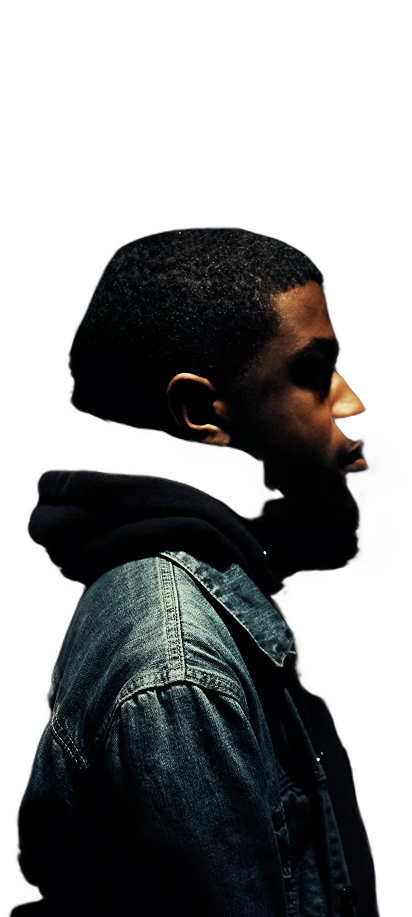
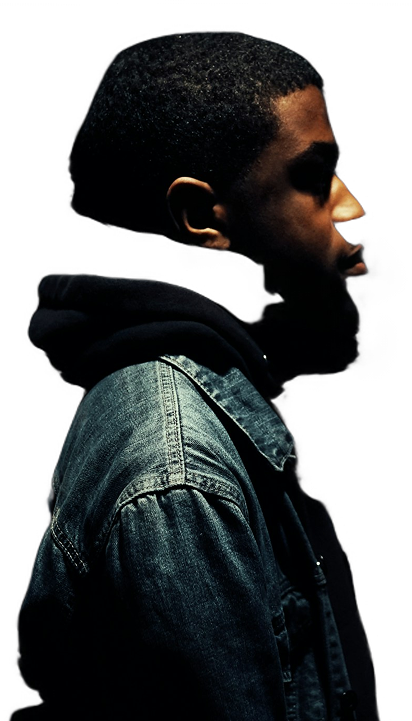
added footer - mobile responsive only

diff --git a/pages/HomeCumAbout.jsx b/pages/HomeCumAbout.jsx
@@ -2,63 +2,72 @@ import React from "react";
 
 function HomeCumAbout() {
   return (
-    <div className="w-full flex-1 relative">
-      {/* Who I am */}
-      <div className="">
-        <span className="font-thin text-[44px]  lg:text-[50px] xl:text-[60px] block leading-[40px]">
-          I<span className="font-sans">'</span>M
-        </span>
-        <span className="font-bold text-[91px] block leading-[64px] md:leading-[70px] lg:leading-[85px] xl:leading-[140px] md:text-[100px] lg:text-[120px] xl:text-[180px]">
-          AFSAL
-        </span>
-        <span className="font-bold text-[91px] block leading-[64px] md:leading-[70px] lg:leading-[85px] xl:leading-[140px] md:text-[100px] lg:text-[120px] xl:text-[180px]">
-          VN
-        </span>
-      </div>
-
-      {/* Roles */}
-      <div className="text-[72px] md:text-[86px] lg:text-[98px] xl:text-[160px] absolute bottom-0 left-0 z-[50]">
-        <span className="leading-[60px] md:leading-[70px] lg:leading-[74px] xl:leading-[120px] block">MERN </span>
-        <span className="leading-[60px] md:leading-[70px] lg:leading-[74px] xl:leading-[120px] block">
-          DEVELOPER{" "}
-        </span>
-      </div>
-
-      {/* floatig scroll down button */}
-      <div className="absolute bottom-[150px] md:bottom-[100px] right-0 z-[50] w-[66px] md:w-[70px] xl:w-[100px] aspect-square border border-secondary rounded-full flex flex-col justify-center items-center gap-[7px]">
-        <span className="text-secondary text-[7px] md:text-[10px] xl:text-[16px] text-center leading-[6px] md:leading-[10px] xl:leading-[16px]">
-          SCROLL
-          <br />
-          DOWN
-        </span>
-        <img
-          src="./icons/bottomArrow.svg"
-          alt=""
-          className="w-[20px] md:w-[24px] xl:w-[32px] aspect-square animate-bounce"
-        />
-      </div>
-
+    <div className="h-screen w-full">
       {/* Hero Image */}
       <img
         src="./images/HeroImage.png"
         alt="HeroImage"
-        className="absolute bottom-0 left-0 h-screen object-cover object-[center_30px] md:hidden"
+        className="absolute w-full z-[50] bottom-0 left-0 object-[center_60px] md:hidden"
       />
       <img
         src="./images/HeroImageAlt.png"
         alt="HeroImage"
-        className="hidden absolute bottom-0 left-0  md:block md:w-[90%] lg:w-[75%] xl:w-auto md:left-1/2 md:-translate-x-1/2 xl:-translate-x-1/4 md:aspect-square md:object-cover "
+        className="hidden md:block  md:absolute md:bottom-0 md:left-1/2 md:-translate-x-1/2 md:z-[50] md:object-[center_60px] xl:w-[45%]"
       />
+      <div className="h-full w-full px-[24px] xl:px-[300px] pt-[98px] xl:pt-[140px] pb-[32px] flex flex-col justify-between relative">
+        {/* Who I am */}
+        <div className="">
+          <span className="font-thin text-[44px]  lg:text-[50px] xl:text-[60px] block leading-[40px]">
+            I<span className="font-sans">'</span>M
+          </span>
+          <span className="font-bold text-[91px] block leading-[64px] md:leading-[70px] lg:leading-[85px] xl:leading-[140px] md:text-[100px] lg:text-[120px] xl:text-[180px]">
+            AFSAL
+          </span>
+          <span className="font-bold text-[91px] block leading-[64px] md:leading-[70px] lg:leading-[85px] xl:leading-[140px] md:text-[100px] lg:text-[120px] xl:text-[180px]">
+            VN
+          </span>
+        </div>
 
-      {/* Download CV Button */}
-      <button className=" absolute bottom-[64px] md:bottom-1 right-0 rounded-[6px] px-2 py-3 md:px-3 xl:px-4 bg-secondary text-primary flex justify-center items-center gap-[10px]">
-        <span className="text-[17px] md:text-[22px] xl:text-[30px]">DOWNLOAD CV</span>
-        <img
-          src="./icons/bottomRightArrow.svg"
-          alt=""
-          className="w-[18px] md:w-[21px] aspect-square"
-        />
-      </button>
+        <div className="flex relative">
+          {/* roles */}
+          <div className="text-[72px] md:text-[86px] lg:text-[98px] xl:text-[160px] z-[50]">
+            <span className="leading-[60px] md:leading-[70px] lg:leading-[74px] xl:leading-[120px] block">
+              MERN{" "}
+            </span>
+            <span className="leading-[60px] md:leading-[70px] lg:leading-[74px] xl:leading-[120px] block">
+              DEVELOPER{" "}
+            </span>
+          </div>
+
+          <div className="z-[100] absolute right-0 bottom-[64px] md:bottom-2">
+            {/* floatig scroll down button */}
+            <div className="z-[100] w-[66px] absolute right-0 bottom-16 md:bottom-20 xl:bottom-28 md:w-[70px] xl:w-[100px] aspect-square border border-secondary rounded-full flex flex-col justify-center items-center gap-[7px]">
+              <span className="text-secondary text-[7px] md:text-[10px] xl:text-[16px] text-center leading-[6px] md:leading-[10px] xl:leading-[16px]">
+                SCROLL
+                <br />
+                DOWN
+              </span>
+              <img
+                src="./icons/bottomArrow.svg"
+                alt=""
+                className="w-[20px] md:w-[24px] xl:w-[32px] aspect-square animate-bounce"
+              />
+            </div>
+
+            {/* Download CV Button */}
+            <button className="rounded-[6px] px-2 py-3 md:px-3 xl:px-4 bg-secondary text-primary flex justify-center items-center gap-[10px]">
+              <span className="text-[17px] md:text-[22px] xl:text-[40px]">
+                DOWNLOAD CV
+              </span>
+              <img
+                src="./icons/bottomRightArrow.svg"
+                alt=""
+                className="w-[18px] md:w-[21px] aspect-square"
+              />
+            </button>
+          </div>
+        </div>
+      </div>
     </div>
   );
 }

diff --git a/components/Footer.jsx b/components/Footer.jsx
@@ -1,0 +1,77 @@
+import React from "react";
+
+function Footer() {
+  return (
+    <section className="px-[24px] min-h-screen  py-[32px] flex flex-col gap-[20px] relative">
+      <div>
+        <h3 className="font-bold text-[62px] leading-[70px] underline-[#fffdd0]">
+          CONTACTS
+        </h3>
+        <div className="w-full h-[1px] bg-secondary rounded-full"></div>
+      </div>
+
+      {/* Details and page links */}
+      <div className="w-full flex justify-between">
+        {/* Details */}
+        <div className="space-y-[16px]">
+          <span className="text-secondary border border-dashed border-secondary px-2 py-1 rounded-[6px] block w-fit">
+            contacts
+          </span>
+          <p className="text-[20px] leading-[23px]">
+            AFSAL VN <br />
+            <span className="font-sans text-[18px]">
+              afsalvnhere@gmail.com <br />
+            </span>
+            KERALA <br />
+            INDIA
+          </p>
+        </div>
+
+        {/* Page links */}
+        <div className="space-y-[16px]">
+          <span className="text-secondary border border-dashed border-secondary px-2 py-1 rounded-[6px] block w-fit">
+            page links
+          </span>
+          <ul className="text-[20px] uppercase flex flex-col items-end gap-[12px] leading-[23px]">
+            <li>Home</li>
+            <li>About</li>
+            <li>Works</li>
+          </ul>
+        </div>
+      </div>
+
+      {/* Form */}
+      <form action="" className="flex flex-col gap-[18px]">
+        <span className="text-secondary border border-dashed border-secondary px-2 py-1 rounded-[6px] block w-fit">
+            email me
+        </span>
+        
+        <input type="email" className="bg-[#151515] border border-secondary/20 p-[20px] rounded-[12px] outline-none" placeholder="email" />
+        <textarea name="content" className="bg-[#151515] border border-secondary/20 p-[20px] rounded-[12px] outline-none" placeholder="description" id="description" ></textarea>
+        <button className="w-full py-[16px] text-[20px] bg-secondary text-primary rounded-[12px] uppercase font-bold">send email</button>
+      </form>
+
+      {/* Social media links */}
+      <div className="space-y-[16px]">
+        <span className="text-secondary border border-dashed border-secondary px-2 py-1 rounded-[6px] block w-fit">
+            socials
+        </span>
+        <ul className="w-full flex justify-between uppercase text-[16px]">
+          <li>Instagram</li>
+          <li>LinkedIn</li>
+          <li>Twitter</li>
+          <li>Facebook</li>
+        </ul>
+      </div>
+
+      {/* Footer Image */}
+      <img
+        src="./images/footerImage.png"
+        alt="footer"
+        className="absolute bottom-0 select-none"
+      />
+    </section>
+  );
+}
+
+export default Footer;

diff --git a/components/Header.jsx b/components/Header.jsx
@@ -9,16 +9,16 @@ function Header({ isOpen, setIsOpen }) {
   useEffect(() => {
     const handleScroll = () => {
       const currentScrollY = window.scrollY;
-      
+
       // Show header when scrolling up or at the top
       if (currentScrollY < lastScrollY || currentScrollY < 100) {
         setShowHeader(true);
-      } 
+      }
       // Hide header when scrolling down and past 100px
       else if (currentScrollY > lastScrollY && currentScrollY > 100) {
         setShowHeader(false);
       }
-      
+
       // Update the last scroll position
       setLastScrollY(currentScrollY);
     };
@@ -30,10 +30,18 @@ function Header({ isOpen, setIsOpen }) {
   }, [lastScrollY]);
 
   return (
-    <div className={`fixed top-0 left-0 z-[100] right-0 z-50  px-[24px] xl:px-[200px] pt-[32px] flex justify-between items-center transition-transform duration-300 ${showHeader ? 'translate-y-0' : '-translate-y-full'}`}>
-      <img src="logo.svg" alt="logo" className="w-[100px] xl:w-[120px] h-auto" />
+    <div
+      className={`fixed bg-primary top-0 left-0 z-[300] right-0 z-50  px-[24px] xl:px-[300px] pt-[32px] flex justify-between items-center transition-transform duration-300 ${
+        showHeader ? "translate-y-0" : "-translate-y-full"
+      }`}
+    >
+      <img
+        src="logo.svg"
+        alt="logo"
+        className="w-[100px] xl:w-[120px] h-auto"
+      />
       <Hamburger isOpen={isOpen} setIsOpen={setIsOpen} />
-     <TopNav/>
+      <TopNav />
     </div>
   );
 }

diff --git a/components/Navbar.jsx b/components/Navbar.jsx
@@ -3,7 +3,7 @@ import MarqueeServices from './MarqueeServices'
 
 function Navbar({ isOpen, setIsOpen }) {
   return (
-    <div className={` select-none fixed top-0 uppercase left-0 right-0 z-[60] w-screen pt-[32px] px-[24px] bg-primary text-secondary flex justify-center items-center transition-all duration-500 ease-in-out ${isOpen ? 'h-dvh opacity-100' : 'h-0 opacity-0'} overflow-hidden`}>
+    <div className={` select-none fixed top-0 uppercase left-0 right-0 z-[200] w-screen pt-[32px] px-[24px] bg-primary text-secondary flex justify-center items-center transition-all duration-500 ease-in-out ${isOpen ? 'h-dvh opacity-100' : 'h-0 opacity-0'} overflow-hidden`}>
       <ul className='text-[40px] font-bold flex flex-col gap-[40px] text-secondary text-center'>
         <li className="cursor-pointer hover:opacity-70 transition-opacity">Home</li>
         <li className="cursor-pointer hover:opacity-70 transition-opacity">About</li>

diff --git a/src/App.jsx b/src/App.jsx
@@ -2,17 +2,23 @@ import React, { useState } from "react";
 import Header from "../components/Header";
 import Navbar from "../components/Navbar";
 import HomeCumAbout from "../pages/HomeCumAbout";
+import Footer from "../components/Footer";
 
 function App() {
   const [isOpen, setIsOpen] = useState(false);
 
   return (
-    <div className="bg-primary h-screen px-[24px] xl:px-[200px] pt-[98px] xl:pt-[120px] pb-[32px] text-secondary flex flex-col">
+    <div className="h-[200vh] bg-primary text-secondary flex flex-col">
       <Header isOpen={isOpen} setIsOpen={setIsOpen} />
       <Navbar isOpen={isOpen} setIsOpen={setIsOpen} />
 
       {/* Homepage and About section - because the animation is connected */}
-      <HomeCumAbout/>
+      <HomeCumAbout />
+      
+      {/* Footer */}
+      <Footer />
+
+      {/* Overlay for the mobile menu */}
     </div>
   );
 }

diff --git a/components/TopNav.jsx b/components/TopNav.jsx
@@ -2,11 +2,11 @@ import React from "react";
 
 function TopNav() {
   return (
-    <ul className="hidden uppercase lg:flex items-center gap-[62px]  text-[32px]">
-        <li>home</li>
-        <li>about</li>
-        <li>works</li>
-        <li>contact</li>
+    <ul className="hidden uppercase lg:flex items-center gap-[62px] text-[32px] xl:text-[54px]">
+        <li className="cursor-pointer">home</li>
+        <li className="cursor-pointer">about</li>
+        <li className="cursor-pointer">works</li>
+        <li className="cursor-pointer">contact</li>
       </ul>
   );
 }
